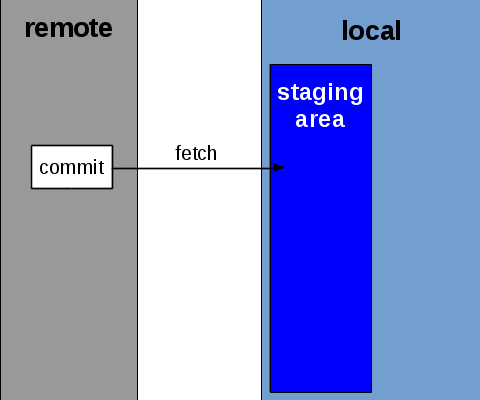
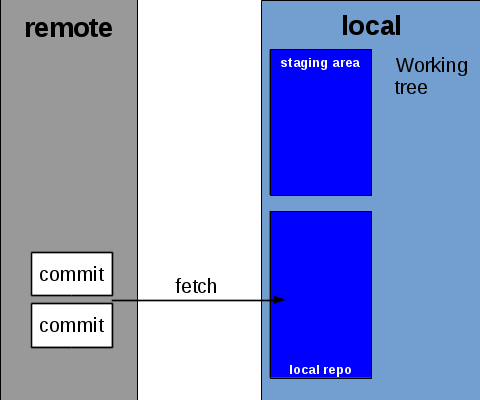
Fixed Git 1-1.
- Commits don't go to the staging area, changes to be committed do.
- Commits go to the local repository.

diff --git a/git/ch1/basics.html b/git/ch1/basics.html
@@ -86,19 +86,20 @@
 				it is still important to distinguish a <span style="font-style: italic;">remote</span> repository from a <span style="font-weight: italic;">local</span>repository.
 				Local repositories do not (usually) directly move code between themselves. Communication with git is almost always done between the local repo and the remote repo, and other local repos grab the changes from the remote.</p>
 			<p>In version control, keeping remote repos updated with code from local repos and vice versa is not as simple as a copy-paste operation.
-				There are a number of steps involved from one end to the other to ensure that git does not destroy your code, but rather update it.</p>
-			<p>To accomplish this, git implements a <span style="font-style: italic;">staging area</span> in each repository.
-				The purpose of the staging area is to hold any changes that have been made to the local repo that have not been reflected on the remote repo, as well as any changes that have been made to the remote repo that haven't yet been reflected locally.
-				This way, git knows exactly what to either update the code with or to upload to the remote repository.</p>
-			<p>Diagrams such as this one are usually used to visualize the staging area:</p>
-			<img class="tutorial large" alt="Git repo diagram" title="Local-remote repository diagram" src="../../files/img/git-repo-base.png" />
+				There are a number of steps involved from one end to the other to ensure that git does not destroy your code, but rather update it.
+				The first step in this process is the <span style="font-style: italic;">staging area</span>.</p>
+			<p>During normal operation, git watches the working directory for any changes to your code. If it finds any, it marks it internally and waits for you to look at the changes to the repository.
+				Because of the way git is set up, it doesn't know whether or not you want to commit the changes you have made to the repository or save them for a later time.</p>
+			<p>In order to tell git that you do want to commit the changes to the repository, you add the changes to git's staging area. They will remain in the staging area until you commit or unstage them.</p>
+			<p>A staging area might be visualized like this:</p>
+			<img class="tutorial large" alt="Git repo diagram" title="Local-remote repository diagram" src="../../files/img/git-repo-add.png" />
 		
 		<h2 class="tutorial"><a id="committing"></a>Committing</h2>
-			<p>While you write your code, git watches all of the files in the repository for changes.
-				When you are satisfied with the changes that you have made, you need to tell git that you want it to <span style="font-style: italic;">commit</span> the changes that you have made to the version history.</p>
-			<p>In the first part of this process, git will tell you all of the files that have changed &#8212; including any new files, deleted files, renamed files, and even changes in any binary files that are in the repositories (such as images).
-				At this step, you have to tell git what files you want it to include in the commit. Most often, you tell git to include all of the changes in the commit, but occasionally you might have reason to tell git to skip certain files in a commit.</p>
-			<p>Then, git asks you to write a commit message. In this message, you should write a detailed, yet succinct description of the changes you made in that specific commit.</p>
+			<p>Now that you have added your changes to the staging area, you need to commit them to the local repository.</p>
+			<p>The local repository is actually kept in a hidden folder in your working directory (this folder is always named <code>.git</code>).
+				When you tell git to commit, it will write your changes to this folder, where they will wait to be uploaded to the remote.</p>
+			<p>When you tell git to commit, you need to give git a commit message. Git will refuse to commit your changes unless you leave a message.
+				In this message, you should write a detailed, yet succinct description of the changes you made in that specific commit.</p>
 			<p>Commit messages have two parts: a title and a description. However, most tools only show one text box to write into. In this case, the commit title is the first line of the commit message. Any lines following that are considered the description.</p>
 			<p>Generally, you should write a short summary of the changes you made into the title. Then, in the description, make a bulleted list (using hyphens) to describe in more detail exactly what you changed.
 				If you have difficulty remembering exactly what you changed, git can show a delta file (known as a <span style="font-style: italic;">diff</span>) that shows you exactly what you changed against the previous commit.</p>
@@ -117,8 +118,7 @@
 9e72248
 			</blockquote>
 			<p>With the diff and commit hash, git then stores the commit in the repository's history.</p>
-			<p>Up to this point, everything that has happened has taken place completely within the local repository. Now, git copies this commit into the staging area, where it will keep it until the commit is uploaded to the remote repository.</p>
-			<img class="tutorial large" alt="Committing to the staging area" title="Commit being copied to the staging area" src="../../files/img/git-repo-commit.png" />
+			<img class="tutorial large" alt="Committing" title="Commit being written to the repository" src="../../files/img/git-repo-commit.png" />
 			<p>At this point, as far as git is concerned, the commit process is complete. Although not recommended, you can keep working without doing anything further.
 				You can continue to make new commits without uploading them, git will still keep the old ones in staging.</p>
 				
@@ -132,9 +132,9 @@
 		
 		<h2 class="tutorial"><a id="pushing"></a>Pushing</h2>
 			<p>Once you have made a commit, it is usually in your best interest to upload it to the remote repository. This process is known to git as a <span style="font-style: italic;">push</span>.</p>
-			<p>This process is fairly self-explanatory. Git takes any unpushed commits it finds in the staging area and sends them to the remote repository.
+			<p>This process is fairly self-explanatory. Git takes any unpushed commits it finds in the local repository and sends them to the remote repository.
 				The copy of git that is running on the server that hosts the remote repository does all of the necessary work to insert the new commits into the history on the remote server.</p>
-			<img class="tutorial large" alt="Pushing to the remote repository" title="Commit being pushed" src="../../files/img/git-repo-push.png" />
+			<img class="tutorial large" alt="Pushing to the remote repository" title="Commits being pushed" src="../../files/img/git-repo-push.png" />
 			
 			<h3 class="tutorial"><a id="push-fail"></a>When pushing fails</h3>
 				<p>Despite how simple this process is, to ensure that the code does not get corrupted, some operations between the local and remote repositories do have the chance of failing.
@@ -149,16 +149,17 @@
 				A pull consists of two steps: <span style="font-style: italic;">fetching</span> and <span style="font-style: italic;">merging</span>.</p>
 				
 			<h3 class="tutorial"><a id="fetching"></a>Fetching</h3>
-				<p>This is basically the reverse process of a push. Git queries the remote repo for any new commits that it does not have locally. It then downloads these commits and places them in the staging area.</p>
-				<p>Unlike pushing, however, a fetch will not fail due to a code conflict, since the commit is only being put in the staging area, and not affecting any files in your local copy.</p>
-				<img class="tutorial large" alt="Fetching commits from the remote repository" title="Commit being fetched" src="../../files/img/git-repo-fetch.png" />
+				<p>This is basically the reverse process of a push. Git queries the remote repo for any new commits that it does not have locally. It then downloads these commits to the local repo.</p>
+				<p>Unlike pushing, however, a fetch will not fail due to a code conflict, since the commit is only being put in the local repo, and not affecting any files in your working tree.</p>
+				<img class="tutorial large" alt="Fetching commits from the remote repository" title="Commits being fetched" src="../../files/img/git-repo-fetch.png" />
 				<p>Although a pull is the operation that you are most likely to use when you want to get the latest commits from the remote repo, it is also possible to tell git only to perform the fetch.</p>
 				
 			<h3 class="tutorial"><a id="merging"></a>Merging</h3>
-				<p>Once the commits have been fetched, git must then incorporate these changes into the codebase in the local repo. This is done through a process called <span style="font-style: italic;">merging</span>.</p>
+				<p>Once the commits have been fetched, git must then incorporate these changes into the working on the local side. This is done through a process called <span style="font-style: italic;">merging</span>.</p>
 				<p>To do this, git analyzes the diff each commit that it fetched. It then changes every file changed in the commit as specified by the diff.
 					So, if three lines were added and one line was deleted in a file, then git will add those three lines and delete the line that was deleted.
-					If there are no code conflicts, then git results with a <span style="font-style: italic;">fast-forward</span>, where the repository is automatically updated to the latest code from the remote.</p>
+					If there are no code conflicts, then git results with a <span style="font-style: italic;">fast-forward</span>, where the repository is simply updated with the latest commits on the remote.</p>
+				<p>Sometimes, your latest commit and the latest commit(s) from the remote might modify the same file. As long as they do not modify the same lines, git will automatically merge the changes in the same file.</p>
 				<img class="tutorial large" alt="Merging fetched commits" title="Fetched commit being merged into the local codebase" src="../../files/img/git-repo-merge.png" />
 				<p>As was the case with fetching, if you have already fetched commits from the remote, then it is possible to tell git separately to merge the fetched commits into the local codebase.
 					However, this is a little more complex than fetching. You will learn more about how merging works in git <a href="history-branching.html">in the next lesson</a>.</p>
